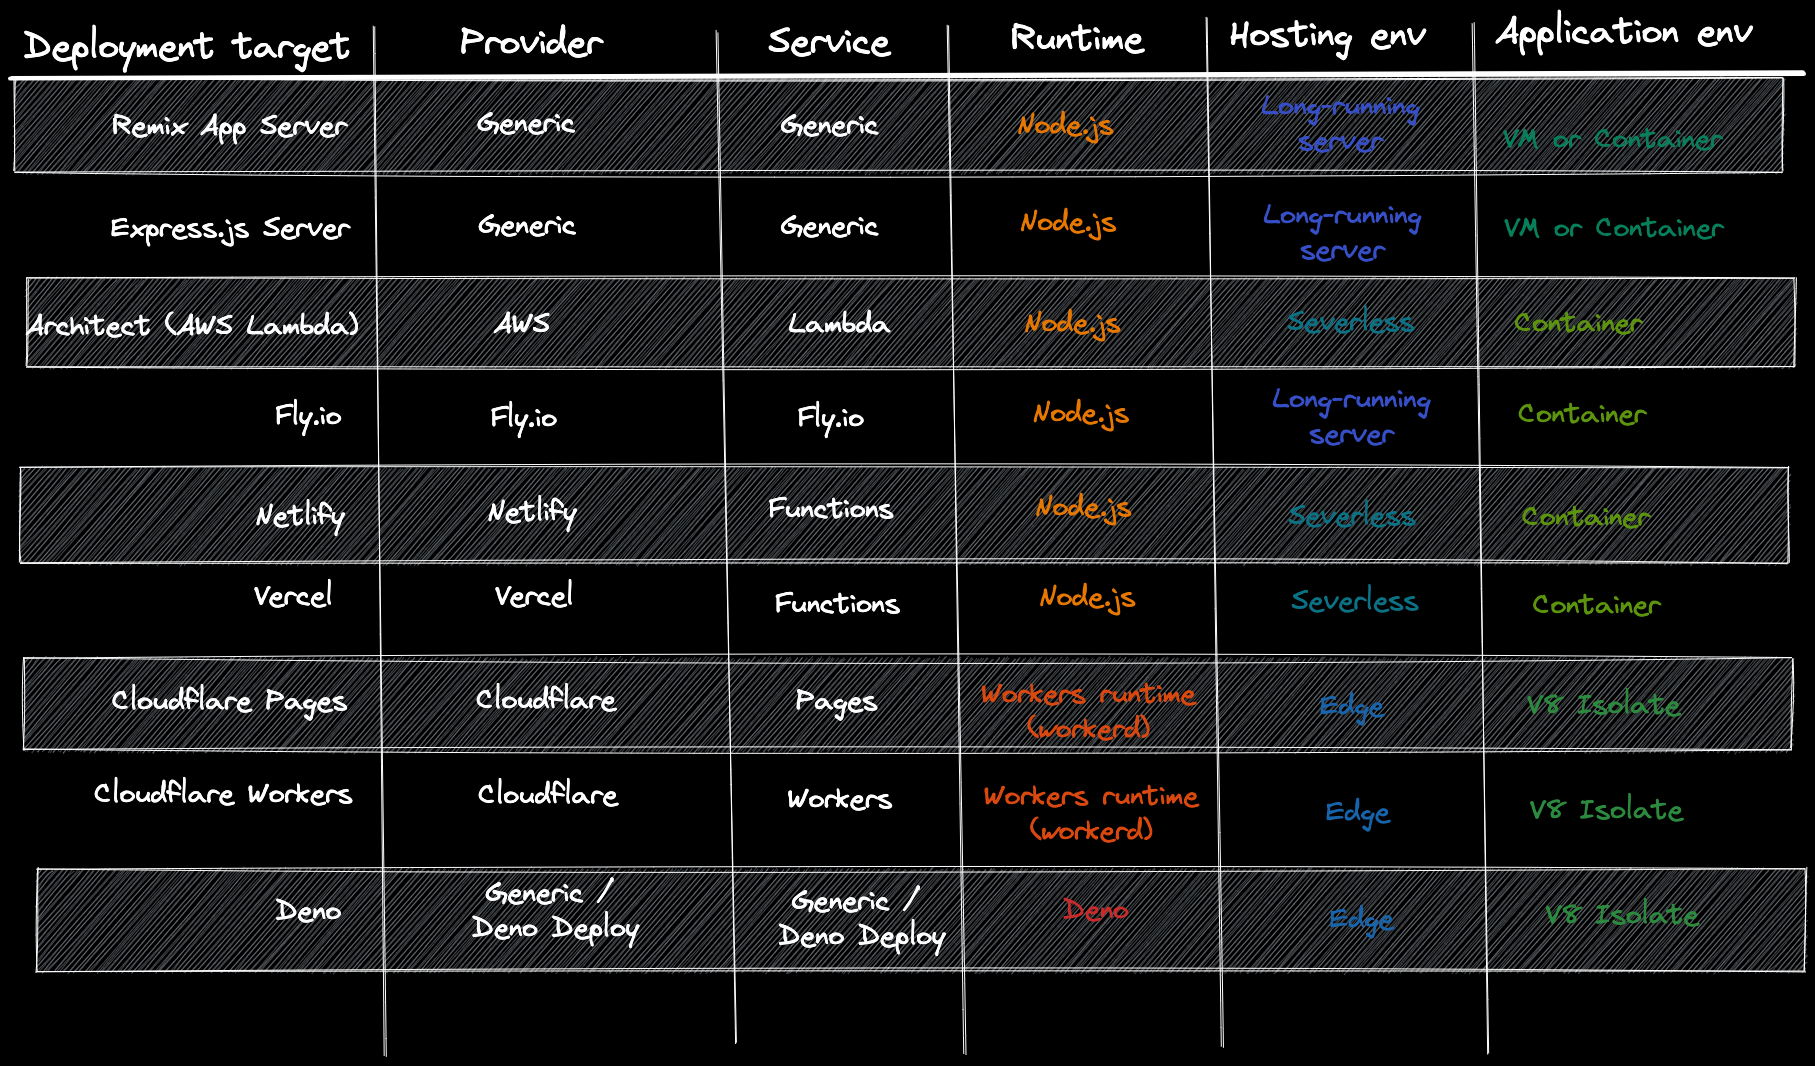
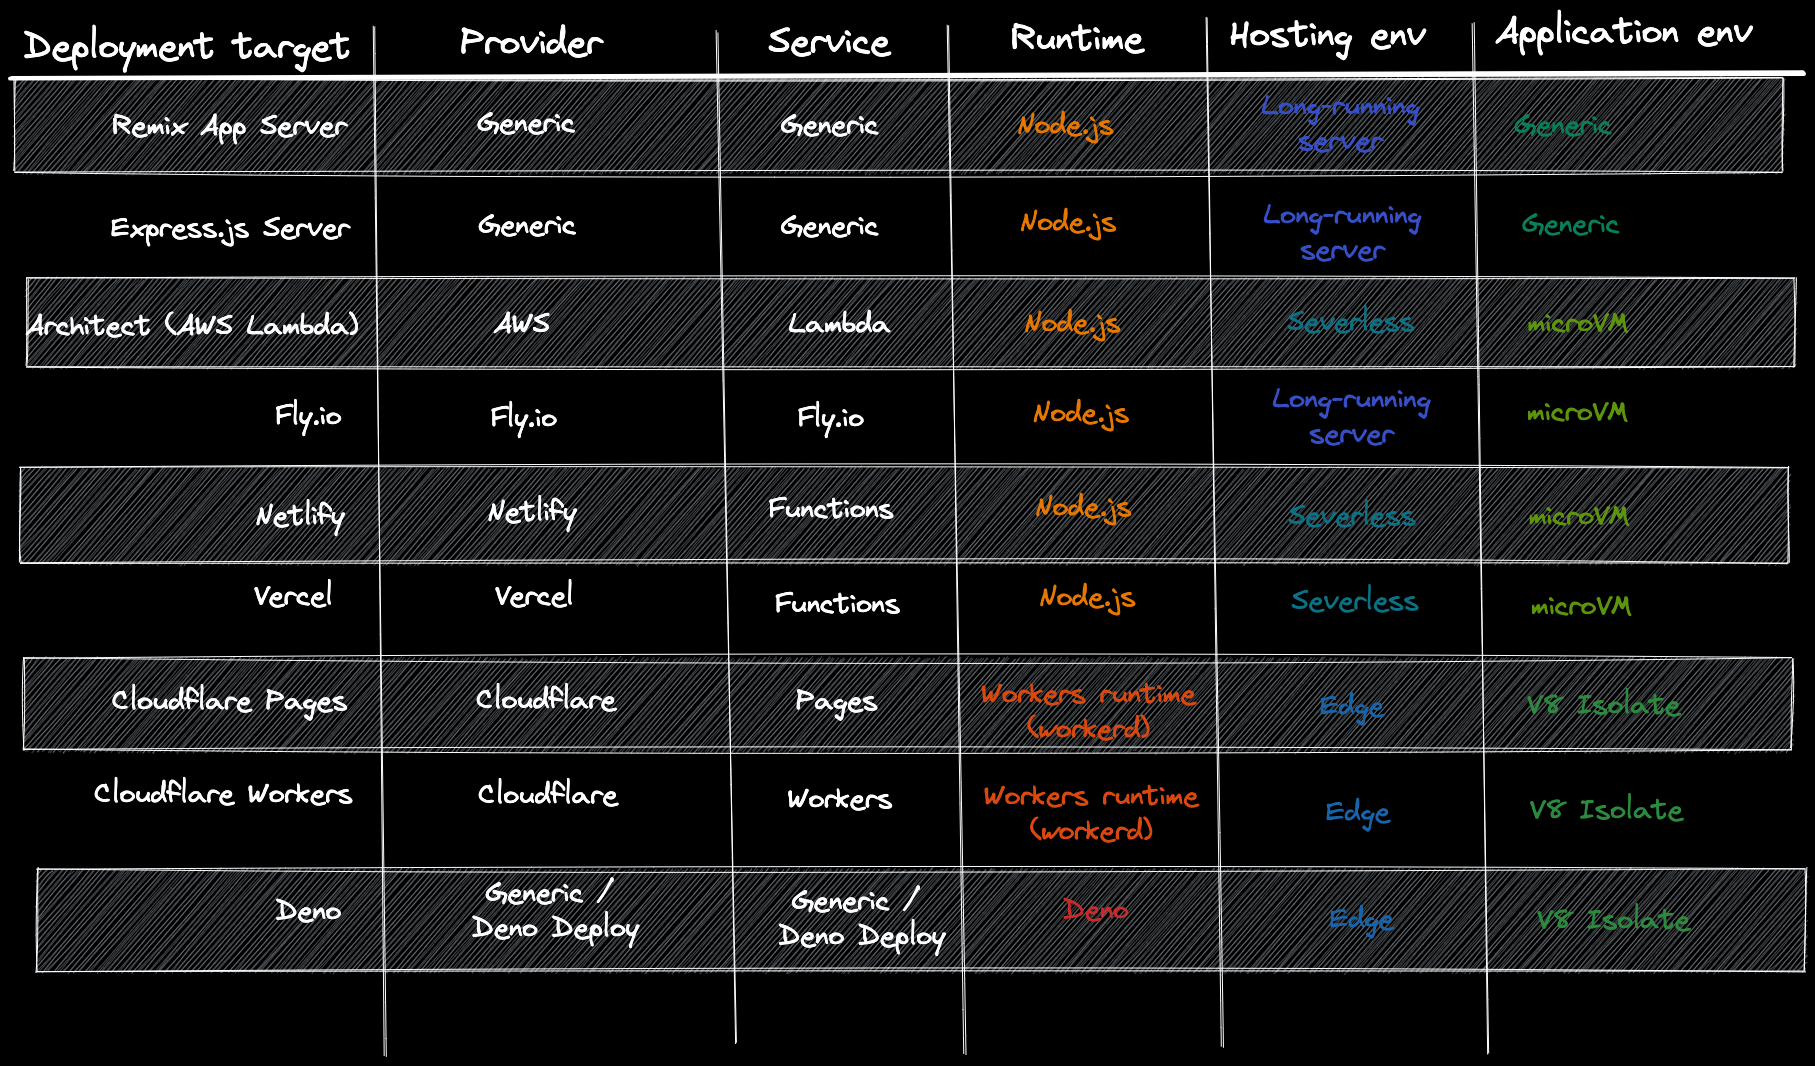
update blog post, add microVM info

diff --git a/contents/articles/2022-12-03_different-dimensions-of-remix-deploy-targets.md b/contents/articles/2022-12-03_different-dimensions-of-remix-deploy-targets.md
@@ -124,30 +124,36 @@ Your application's process runs in some sort of environment. On localhost or an 
 
 We can identify the following virtual application environments:
 
-- Virtual machine (VM)
-- Container
-- V8 Isolate
+- Virtual machines (VM)
+- microVMs
+- Containers
+- V8 Isolates
 
-Virtual machines mostly include an operation system on their own. VMs boot up in minutes and are measured in Gigabytes.
+Please note that the container landscape is particularly fragmented. There are several different container technologies and standards. Not everything that uses a Docker image is a [Docker container](https://www.docker.com/resources/what-container/) ([1](https://fly.io/blog/docker-without-docker/)). For example, AWS Lambda uses [Firecracker](https://firecracker-microvm.github.io/) which creates so called microVMs that run on top of **KVM (Kernel-based Virtual Machine)**. These microVMs are specifically optimized for faster startup times and other serverless use cases.
 
-Containers include the language runtime of the programming language that should be executed. Containers boot up in milliseconds (may reach over a second) and are measured in Megabytes.
+Shout-out to [Brian LeRoux](https://twitter.com/brianleroux) for [pointing out](https://twitter.com/brianleroux/status/1599545856516321281) that MicroVMs behave differently then traditional containers.
 
-V8 Isolates are an V8 (JavaScript engine used in Chromium, Node.js, and Deno) mechanism and only include the code of your application in a very lightweight sandbox. V8 Isolates boot up in nanoseconds and are measured in Kilobytes (may reach a few Megabytes).
+So how do these application environments differ? I use the following intuition for these environments:
+
+- **Virtual machines** mostly include an operation system on their own. VMs boot up in minutes and are measured in Gigabytes.
+- **microVMs** virtualize the kernel to some extend but are more lightweight than VMs. KVMs boot up in milliseconds (may reach a few seconds) and are measured in Megabytes.
+- **(Docker) Containers** run on top of a host operating system. Usually, containers are measured in Megabytes and boot up in a few seconds.
+- **V8 Isolates** are an V8 (JavaScript engine used in Chromium, Node.js, and Deno) mechanism and only include the code of your application in a very lightweight sandbox. V8 Isolates boot up in nanoseconds and are measured in Kilobytes (may reach a few Megabytes).
 
 Different hosting environments utilize different application environment to orchestrate and run your application. Currently they usually map as follows:
 
-- Long-running server: **VM or container**
-- Serverless: **Container**
-- Edge: **Container or V8 Isolate**
+- Long-running server: **Generic (VM, MicroVM, Container)**
+- Serverless: **Container or MicroVM**
+- Edge: **V8 Isolate**
 
 Each Remix deployment target may map to several or one application environment:
 
-- Remix App Server: **VM or container**
-- Express Server: **VM or container**
-- Architect (AWS Lambda): **Container**
-- Fly.io: **Container**
-- Netlify: **Container**
-- Vercel: **Container**
+- Remix App Server: **Generic**
+- Express Server: **Generic**
+- Architect (AWS Lambda): **MicroVM**
+- Fly.io: **MicroVM** ([1](https://fly.io/blog/sandboxing-and-workload-isolation/))
+- Netlify: **MicroVM**
+- Vercel: **MicroVM**
 - Cloudflare Pages: **V8 Isolate**
 - Cloudflare Workers: **V8 Isolate**
 - Deno: **V8 Isolate**

diff --git a/contents/articles/2022-05-29_how-to-integrate-markdown-content-with-syntax-highlighting-in-remix.md b/contents/articles/2022-05-29_how-to-integrate-markdown-content-with-syntax-highlighting-in-remix.md
@@ -235,7 +235,7 @@ Let's first install react-markdown:
 npm i react-markdown
 ```
 
-Now we have to alter the `remix.config.js` file as specified in the [remix.run documentation](https://remix.run/docs/en/v1/pages/gotchas#importing-esm-packages) and add all ESM packages that we want to use (that is react-markdown and all its dependencies):
+Now we have to alter the `remix.config.js` file as specified in the [remix.run documentation](https://remix.run/docs/en/v1/pages/gotchas#importing-esm-packages) and add all ESM packages that we want to use (that is `react-markdown` and all its dependencies):
 
 ```javascript
 /**
@@ -316,9 +316,9 @@ Some cool things you can do with custom React components:
 - A custom link component that handles external links differently
 - An optimized image component
 - Syntax highlighting for code and pre blocks
-- Custom codes that map to custom components to insert advertisments, marketing banners, etc.
+- Custom codes that map to custom components to insert advertisements, marketing banners, etc.
 
-react-markdown (using rehype-react under the hood) comes with a `components` property that allows us to map HTML elements to custom React components. Import the components you want to use and pass them to the `components` property:
+react-markdown (using `rehype-react` under the hood) comes with a `components` property that allows us to map HTML elements to custom React components. Import the components you want to use and pass them to the `components` property:
 
 ```tsx
 import ReactMarkdown from 'react-markdown';
